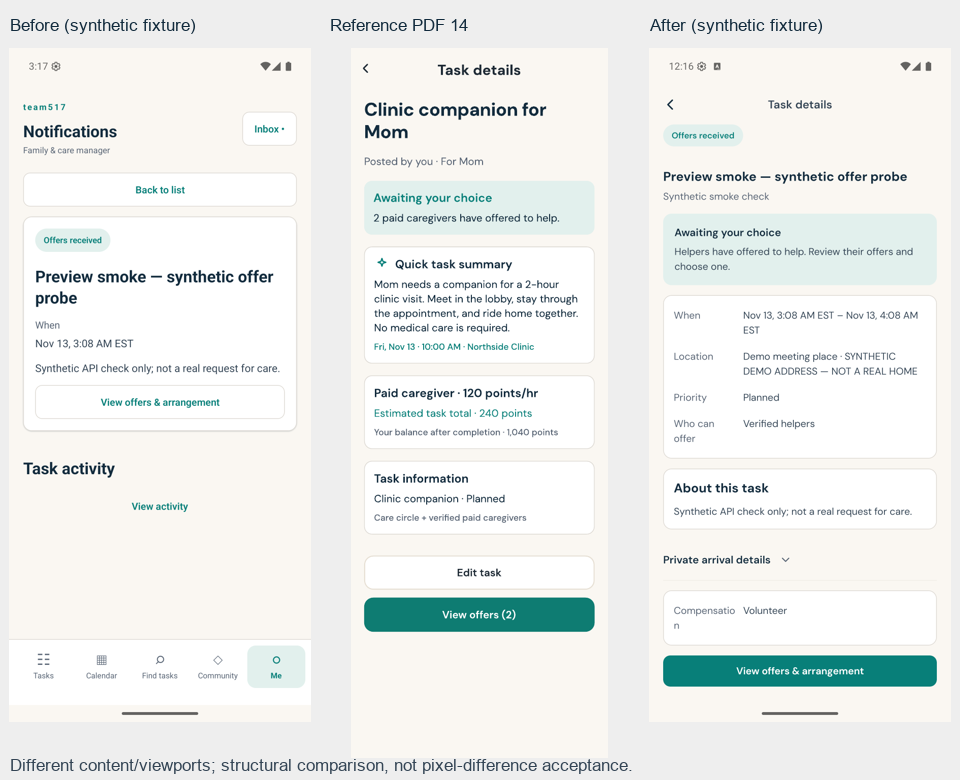
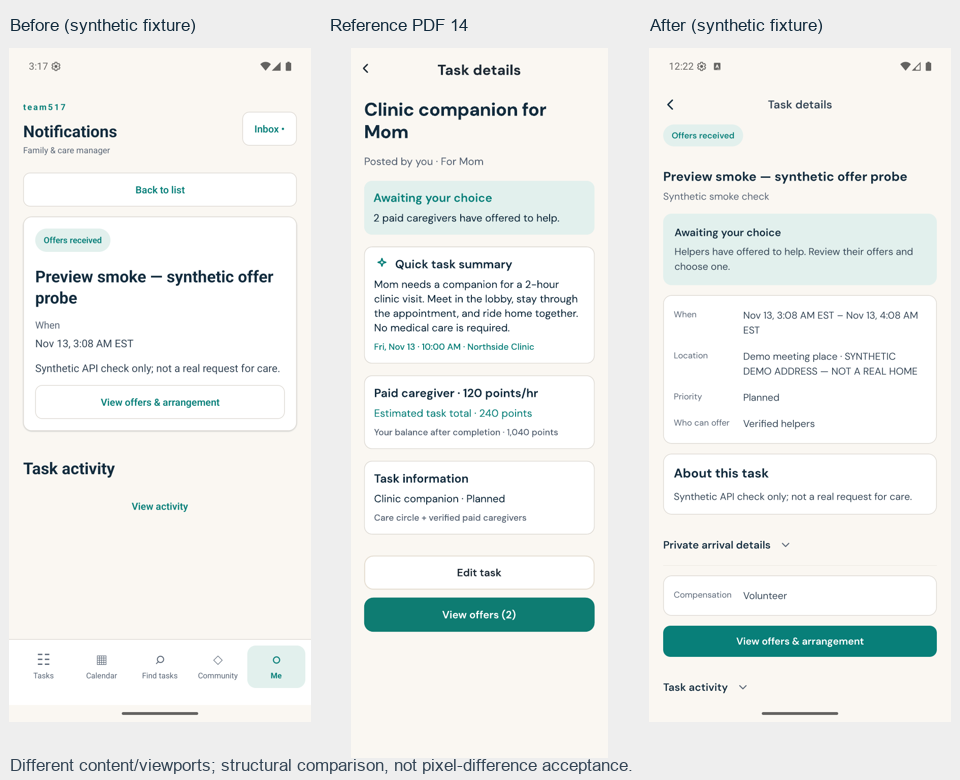
Polish task information captions and final native evidence

Changed region(s): [[0.6875, 0.4923, 1.0, 0.8923], [0.7188, 0.4308, 0.75, 0.4615]]

diff --git a/apps/mobile/src/components/ui.tsx b/apps/mobile/src/components/ui.tsx
@@ -38,7 +38,7 @@ export function Avatar({ label }: { label: string }) { return <View accessibilit
 export function EmptyState({ title, message }: { title: string; message?: string }) { return <View style={s.empty}><Text accessibilityRole="header">{title}</Text>{message && <Text style={s.muted}>{message}</Text>}</View>; }
 export function LoadingState({ label = 'Loading your information…' }: { label?: string }) { return <View style={s.loading}><ActivityIndicator color={t.colors.primary} /><Text>{label}</Text></View>; }
 export function ErrorState({ message }: { message: string }) { return <View style={s.errorBox}><Text accessibilityRole="alert">{message}</Text></View>; }
-export function InfoRow({ label, value }: { label: string; value?: string }) { return <View style={s.row}><Text style={[s.muted, { width: 88 }]}>{label}</Text><Text style={{ flex: 1 }}>{value || 'Not provided'}</Text></View>; }
+export function InfoRow({ label, value }: { label: string; value?: string }) { return <View style={s.row}><Text style={[s.muted, { width: 88, fontSize: t.type.caption, lineHeight: 18 }]}>{label}</Text><Text style={{ flex: 1 }}>{value || 'Not provided'}</Text></View>; }
 const s = StyleSheet.create({
   text: { color: t.colors.text, fontSize: t.type.body, lineHeight: 21, flexShrink: 1 }, heading: { color: t.colors.ink, fontSize: t.type.section, lineHeight: 25, fontWeight: t.weight.bold, marginTop: 0 },
   error: { color: t.colors.error }, button: { minHeight: 44, borderRadius: t.radius.sm, paddingHorizontal: 16, paddingVertical: 11, alignItems: 'center', justifyContent: 'center', borderWidth: 1 },

diff --git a/docs/native-evidence/2026-11-12-design-overhaul/README.md b/docs/native-evidence/2026-11-12-design-overhaul/README.md
@@ -1,8 +1,8 @@
 # Android visual-overhaul evidence — November 12, 2026
 
-Actual Pixel_9_Pro / emulator-5554 state device, Android16/API36 x86_64, 1280×2856. Real non-production team517-dev with synthetic accounts/content. Standalone Hermes APK, no Metro. Final installed APK: **40,853,564 bytes**, SHA256 **4ca8318c4f5b015c631d13080ff81e593e78d1d05d679a45ebfed5b2922aa119**.
+Actual Pixel_9_Pro / emulator-5554 state device, Android16/API36 x86_64, 1280×2856. Real non-production team517-dev with synthetic accounts/content. Standalone Hermes APK, no Metro. Final installed APK: **40,853,600 bytes**, SHA256 **7d282c03ad0bd76ac284cc5fc854ab3da99845ae7ce946527750ab8f88ace7a2**.
 
-Evidence was collected during iterative APK rebuilds. final-* captures show the unchanged relevant layouts before final navigation/assistant refinement; native scheduling captures use 1fd87f5; backfix-* and release-ai-* use b53811a1; package-* captures use the final hash above. The final refinement hides root tabs on focused pages and opens task/circle conversations as a focused modal. They are not all screenshots of a single build, and intermediate keyboard/system-dialog evidence is explicitly labelled. No credential-filled login screenshot is included.
+Evidence was collected during iterative APK rebuilds. final-* captures show the unchanged relevant layouts before final navigation/assistant refinement; native scheduling captures use 1fd87f5; backfix-* and release-ai-* use b53811a1; package-* captures use 4ca8318c; final-package-task uses the final hash above (caption-wrap correction only). The final refinement hides root tabs on focused pages and opens task/circle conversations as a focused modal. They are not all screenshots of a single build, and intermediate keyboard/system-dialog evidence is explicitly labelled. No credential-filled login screenshot is included.
 
 [Overview](overview.png) · [Discovery comparison](compare-discovery.png) · [Community comparison](compare-community.png) · [Conversation comparison](compare-conversation.png) · [Task comparison](compare-task-detail.png). Before/reference/after images have different content, roles where indicated and device frames; no matching percentage is claimed.
 
@@ -36,3 +36,5 @@ No native pass claimed for all creation/error/loading states, native AI review r
 Issues: no new observed BLOCKER/HIGH; MEDIUM Back-order bug fixed and retested. LOW original icon/asset/precise spacing differences remain under the approved PDF approximation. Full Figma visual acceptance remains open until those differences and the pending native checks are reviewed.
 
 Final Inbox screenshot: [Inbox](release-inbox.png). [Floating Gboard](software-keyboard.png) is a real OS keyboard, not an application keyboard. No Windows/device security or networking settings were changed. Main overhaul hosted CI passed at [c85287b](https://github.com/KuoFuKai/team517/actions/runs/43266289770); focused navigation follow-up CI is reported separately.
+
+LOW label-wrap correction was also rendered on the final APK: [Task information](final-package-task.png). Compensation and Who can offer fit on one label line; native screenshot confirms the CTA is visible.

diff --git a/docs/android-preview.md b/docs/android-preview.md
@@ -1,6 +1,6 @@
 # Android Preview — Sprint 7B.1
 
[2 lines of base64/hex data omitted]
 
[1 lines of base64/hex data omitted]
 

diff --git a/docs/design-overhaul.md b/docs/design-overhaul.md
@@ -46,3 +46,5 @@ New dependencies are DM Sans 0.4.2 and native datetimepicker 8.6.0; Expo font wa
 APK: artifacts/android/team517-preview.apk. Install as an update to edu.cornelltech.team517; uninstalling is unnecessary. The [native evidence matrix](native-evidence/2026-11-12-design-overhaul/README.md) records what actually rendered and the final artifact hash. This remains a development Preview, not a production distribution.
 
 Main overhaul commit c85287b hosted Node 22 CI passed: [run](https://github.com/KuoFuKai/team517/actions/runs/43266289770). Final focused-navigation/modal changes passed the same focused 61-test client suite, typecheck and Hermes export; no backend changes.
+
+Final LOW polish: caption-sized information labels prevent orphaned wrapping (Compensation / Who can offer); rendered again on the final APK. No business logic changed.
